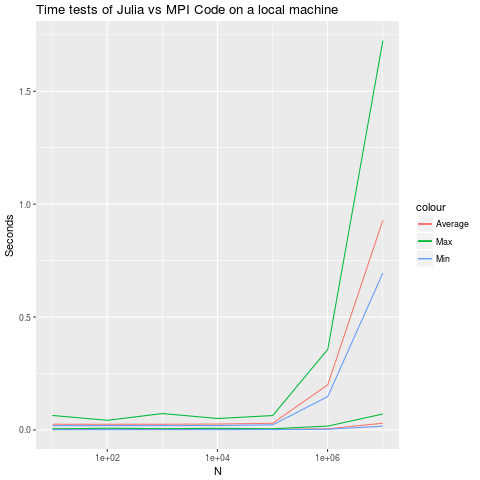
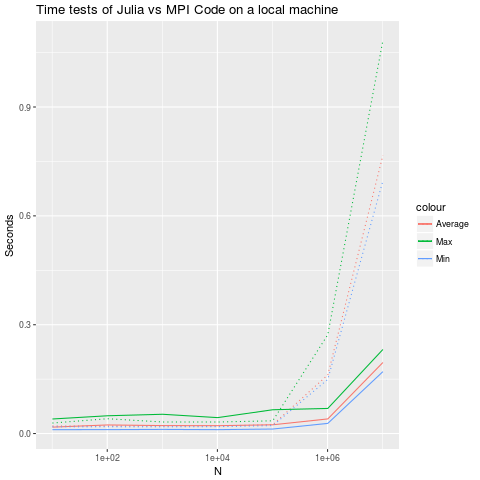
Update tex file, proper test values

diff --git a/Term_Paper.tex b/Term_Paper.tex
@@ -3,6 +3,7 @@
 \usepackage[margin=1in]{geometry}
 \usepackage{hyperref}
 \usepackage{fixme}
+\usepackage{csquotes}
 \usepackage{todonotes}
 \usepackage{listings}
 \usepackage{biblatex}
@@ -40,7 +41,7 @@ Devon Johnson\\ \texttt{dnrjohnson@ucdavis.edu}
     basicstyle       = \ttfamily,
     keywordstyle     = \bfseries\color{blue},
     stringstyle      = \color{magenta},
-    commentstyle     = \color{ForestGreen},
+    commentstyle     = \color{green},
     showstringspaces = false,
 }
 
@@ -54,7 +55,7 @@ Devon Johnson\\ \texttt{dnrjohnson@ucdavis.edu}
 \todo{You can also use todo's like this.}
 %comments are written like this
 
-\section*{\normalsize History and motivation for Julia, why have yet another scripting language?}
+\section*{\normalsize History and motivation for Julia -- why have yet another scripting language?}
 
 Julia is meant to be the best of both worlds between:
 \begin{itemize}
@@ -73,10 +74,10 @@ Previously, many developers would use both higher and lower level languages for 
 
 Julia's speed is one of its key features. However, maintaining unbiased timing measurements for multiple languages is often difficult. As such, the examples used to analyze the Julia comparisons attempt neutrality but may contain imperfect code conversions. Taken from the Julia website, the speeds of multiple languages are displayed in Table 1\footnote{cite placeholder \url{https://julialang.org/benchmarks/}}.
 
-\begin{table}[]
+\begin{table}[ht]
 \centering
 \caption{Julia Website Timing Comparisons (Abridged)}
-\label{my-label}
+\label{Table-1}
 \begin{tabular}{|l|c|c|c|c|c|c|c|}
 \hline
                               & \textbf{\begin{tabular}[c]{@{}c@{}}C\\ gcc\\ 4.8.5\end{tabular}} & \textbf{\begin{tabular}[c]{@{}c@{}}Julia\\ 0.6.0\end{tabular}} & \textbf{\begin{tabular}[c]{@{}c@{}}Fortran\\ gcc 4.8.5\end{tabular}} & \textbf{\begin{tabular}[c]{@{}c@{}}Java\\ 1.8.0\_14\end{tabular}} & \textbf{\begin{tabular}[c]{@{}c@{}}Matlab\\ R\\ `2017a'\end{tabular}} & \textbf{\begin{tabular}[c]{@{}c@{}}Python\\ 3.5.4\end{tabular}} & \textbf{\begin{tabular}[c]{@{}c@{}}R\\ 3.3.1\end{tabular}} \\ \hline
@@ -93,10 +94,10 @@ Julia's speed is one of its key features. However, maintaining unbiased timing m
 
 From Table 1's numbers, it appears Julia is blisteringly fast for most applications. However, is this really a fair comparison? According to IBM Developer Jean Francois Puget, the Python benchmarks were not written as efficiently as possible. Consider his final timings after optimizations in Table 2\footnote{cite placeholder \href{https://www.ibm.com/developerworks/community/blogs/jfp/entry/Python_Meets_Julia_Micro_Performance?lang=en}{IBM developer works}}.
 
-\begin{table}[]
+\begin{table}[ht]
 \centering
 \caption{Optimized Python vs. Julia}
-\label{my-label}
+\label{Table-2}
 \begin{tabular}{|l|c|c|c|c|c|c|c|}
 \hline
 Time in micro seconds        & \textbf{Julia} & \textbf{\begin{tabular}[c]{@{}c@{}}Python \\ (Opt)\end{tabular}} & \textbf{\begin{tabular}[c]{@{}c@{}}Python\\ (Original)\end{tabular}} & \textbf{\begin{tabular}[c]{@{}c@{}}Julia / \\ Python \\ (Opt)\end{tabular}} & \textbf{Numpy} & \textbf{Numba} & \textbf{Cython} \\ \hline
@@ -141,7 +142,7 @@ Finally, as with any language, Julia has certain guidelines to keep in mind when
 \item Performance tips to speed up Julia code. 
 \url{https://docs.julialang.org/en/latest/manual/performance-tips/} 
 
-\item Once again, timing tests are often linked to how the language is put together. Julia implements .\string^ in Julia (without C or C++) while Octave implements it with C; because of this, Octave is faster for this problem. \url{https://stackoverflow.com/questions/19208014/is-the-julia-language-really-as-fast-as-it-claims}
+\item Once again, timing tests are often linked to how the language is put together. Julia implements .\string^ in Julia (without C or C++) while Octave implements it with C; because of this, \href{https://stackoverflow.com/questions/19208014/is-the-julia-language-really-as-fast-as-it-claims}{Octave is faster for this problem.}
 
 \item A paper on Julia’s dev design decisions made to prioritize performance.
 \url{https://arxiv.org/pdf/1209.5145v1.pdf}
@@ -226,25 +227,32 @@ start(10)
 \end{lstlisting}
 
 %Graphic inclusion, won't work with overleaf
-\includegraphics[width=\textwidth]{./plot.png}
+\includegraphics[width=\textwidth]{plot.png}
 
-\begin{table}[]
+
+\begin{table}[ht]
 \centering
-\caption{Cumulative Sum Performance in OpenMPI C vs. Julia \(ms\)}
-\label{my-label}
+\caption{Cumulative Sum Performance in OpenMPI C vs. Julia (ms)}
+\label{Test-Cases}
 \begin{tabular}{|l|c|c|c|c|c|c|}
 \hline
 Size of Array        & \textbf{\begin{tabular}[c]{@{}c@{}}Julia \\ Average\end{tabular}} & \textbf{\begin{tabular}[c]{@{}c@{}}OpenMPI \\ Average\end{tabular}} & \textbf{\begin{tabular}[c]{@{}c@{}}Julia\\ Worst Case\end{tabular}} & \textbf{\begin{tabular}[c]{@{}c@{}}OpenMPI \\ Worst Case\end{tabular}} & \textbf{\begin{tabular}[c]{@{}c@{}}Julia \\ Best Case\end{tabular}} & \textbf{\begin{tabular}[c]{@{}c@{}}OpenMPI \\ Best Case\end{tabular}}  \\ \hline
-\textbf{10} 		& 25.06 & 2.06 & 64.00 & 4.83 & 18.53 & 1.10 \\ \hline
-\textbf{100} 		& 24.89 & 1.99 & 42.57 & 7.42 & 19.08 & 1.14\\ \hline
-\textbf{1000} 		& 25.05 & 1.91 & 72.44 & 5.55 & 19.06 & 1.14\\ \hline
-\textbf{10,000} 	& 26.00 & 2.05 & 50.53 & 6.93 & 19.41 & 1.15\\ \hline
-\textbf{100,000} 	& 29.36 & 2.18 & 63.52 & 5.09 & 22.57 & 1.28\\ \hline
-\textbf{1,000,000} 	& 200.17  & 5.12 & 357.11  & 17.04 & 147.92  & 2.84\\ \hline
-\textbf{10,000,000} & 928.67 & 29.61  & 1,724.76 & 70.60 & 695.23 & 16.39\\ \hline
+\textbf{10} 		& 20.91 & 17.70   & 28.99    & 40.14  & 18.61  & 10.75\\ \hline
+\textbf{100} 		& 20.78 & 23.75   & 40.87    & 49.02  & 18.74  & 10.86\\ \hline
+\textbf{1000} 		& 20.86 & 21.84   & 31.87    & 53.15  & 18.60  & 11.41\\ \hline
+\textbf{10,000} 	& 21.14 & 21.68   & 31.77    & 43.93  & 18.98  & 10.79\\ \hline
+\textbf{100,000} 	& 24.23 & 24.19   & 35.14    & 65.61  & 21.84  & 12.46\\ \hline
+\textbf{1,000,000} 	& 161.75 & 40.34  & 272.53   & 69.22  & 149.27 & 28.04\\ \hline
+\textbf{10,000,000} & 766.60 & 195.85 & 1,083.26 & 231.74 & 696.51 & 170.66\\ \hline
 
 \end{tabular}
 \end{table}
+
+
+	As is apparent Table 3, Julia, when compared to the C version of OpenMPI, does very well at lower sample sizes. The high performance at low sample sizes indicates several things. First of all, Julia's parallelization through message passing is at least on par if not better than that of OpenMPIi in terms of latency. This comes from the fact that we send more messages with Julia because of the requirement of both function calls and variable requests to be done through message passing, yet we still see a performance on par, if not better than the C implementation of MPI in some cases. However, these tests were performed entirely locally with both implementations. As a result latency over messages is extremely low. Because of the greater volume of messages required by Julia, the performance gain would likely diminish when working on a network cluster, especially if it is not particularly low latency. What is particularly interesting is the across the board better performance ceiling of Julia at low sample sizes. This could be due to less overhead of initialization of nodes for parallelization. Where MPI requires initialization and a variety of variables to be set for each node, Julia only invokes the information required per node from the master node and goes from there.
+
+	Interestingly, Julia appears to struggle when given larger tasks compared to MPI. Due to the very sudden spike in time of the algorithm when compared to MPI, we know that for some reason, the large array size is causing a bottleneck. This is most likely one of two things, either the Message Passing interface of Julia does not have very high throughput, or Julia is having issues performing large-scale array comutations. It seems highly unlikely that Julia cannot handle arrays of that large a size given the focus on large array computation by the developers. One issue at hand that could be due to the large array size is vectorization, which causes slowdown in Julia due to extremely efficient for loop implementation.\footnote{Dahua Lin, Sep. 4, 2013,\url{https://julialang.org/blog/2013/09/fast-numeric}} Despite the issue of vectorization though, each of the potentially vectorized commands are in fact specific calls for large arrays. Thus it seems doubtful the Julia developers would write their built in reduction functions without large arrays in mind. Given this information, it seems likely that the implementation of message passing, though low on latency, does not support very high throughput. The reasoning for this is with small sample sizes, the latency of the execution as a whole will be most strongly affected by the latrency and the throughput can be ignored. However, as you grow, if you have a lower throughput system, the bottleneck will begin to grow your overall delay by a wider margin as happened with Julia vs MPI. 
+
 
 \printbibliography
 

diff --git a/cumsum.c b/cumsum.c
@@ -65,8 +65,8 @@ void cumulsums()
 int main(int argc,char **argv)
 {  
 	int i;
-	init(argc,argv);
 	clock_t begin = clock();
+	init(argc,argv);
 	cumulsums();
 	MPI_Finalize();
 	clock_t end = clock();
